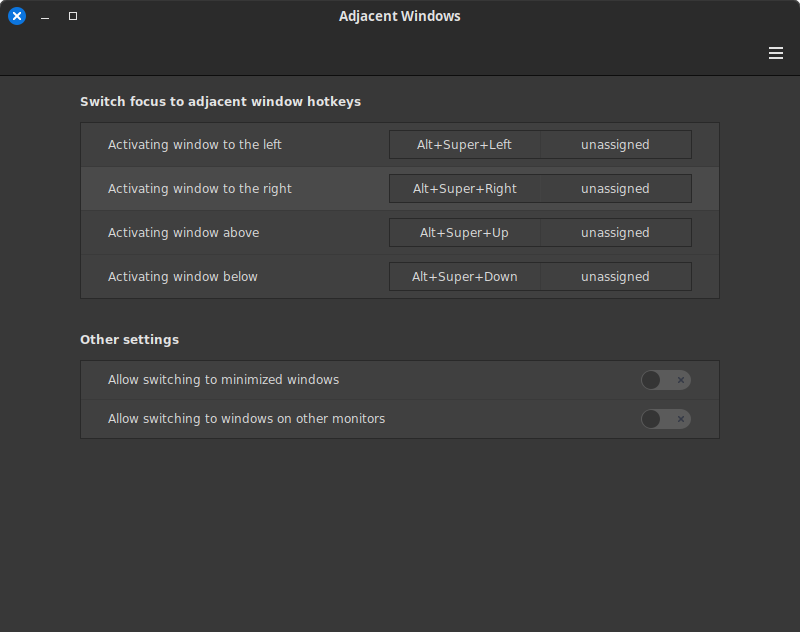
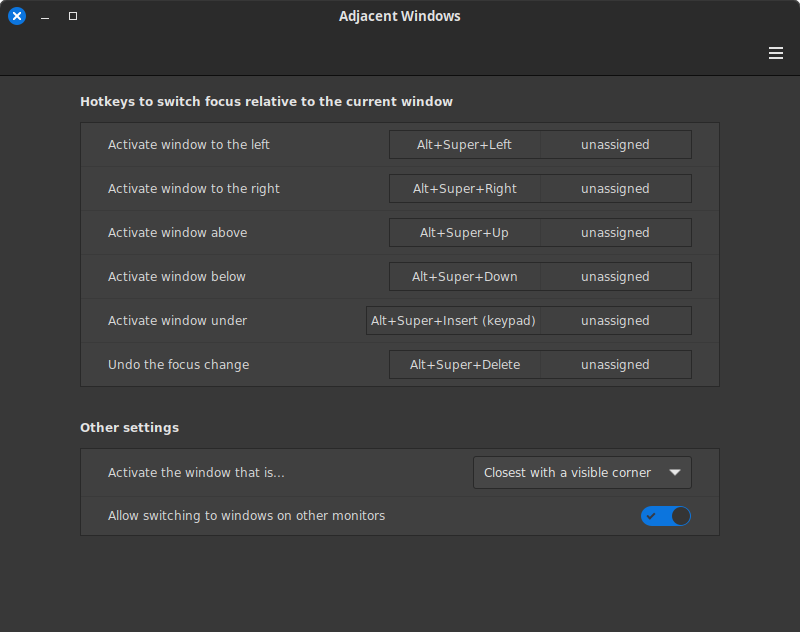
Added some advanced algorithm tuning options
1. Added two new configuration tuning options that users can play with to adjust the window selection criteria algorithm. Using these options might help users adjust the algorithm so that the window selection is more in line with expectations.

2. Moved the extension to a 5.4 directory as a measure to insure that the extension is only available in Cinnamon 5.4 or better.

diff --git a/adjacent-windows@klangman/5.4/extension.js b/adjacent-windows@klangman/5.4/extension.js
@@ -277,6 +277,9 @@ class AdjacentWindows {
       let candidateList = [];
       let windowVisibilityList = [];
       let allowOtherMon  = this.settings.getValue("include-other-monitors");
+      let zoneReductionPercent = this.settings.getValue("boost-restriction");
+      let zoneReduction = Math.round( ((direction == Direction.Left || direction == Direction.Right)? focusedRec.height : focusedRec.width) * (zoneReductionPercent/100) / 2 );
+      let cornerAllowance = this.settings.getValue("overlap-allowance");
 
       // Sort the list of windows in z-order (most recently focused is first in the list).
       windowList.sort(function(a, b) {return b.user_time - a.user_time;});
@@ -293,30 +296,30 @@ class AdjacentWindows {
             if (metaWindow != focusedWindow) {
                if (direction == Direction.Left) {
                   if (rec.x < focusedRec.x) {
-                     windowVisibilityList[idx].overlapping = (rec.y < focusedRec.y+focusedRec.height && rec.y+rec.height > focusedRec.y);
+                     windowVisibilityList[idx].overlapping = (rec.y < focusedRec.y+focusedRec.height-zoneReduction && rec.y+rec.height > focusedRec.y+zoneReduction);
                      windowVisibilityList[idx].rec.width = Math.min(rec.width, focusedRec.x-1-rec.x);
-                     windowVisibilityList[idx].cornerVisibility = this.getCornerVisibility( windowVisibilityList[idx], windowList, rec.x, rec.x+rec.width, rec.y, rec.y+rec.height );
+                     windowVisibilityList[idx].cornerVisibility = this.getCornerVisibility( windowVisibilityList[idx], windowList, rec.x+cornerAllowance, rec.x+rec.width-cornerAllowance, rec.y+cornerAllowance, rec.y+rec.height-cornerAllowance );
                      candidateList.push(windowVisibilityList[idx]);
                   }
                } else if (direction == Direction.Right) {
                   if (rec.x+rec.width > focusedRec.x+focusedRec.width) {
-                     windowVisibilityList[idx].overlapping = (rec.y < focusedRec.y+focusedRec.height && rec.y+rec.height > focusedRec.y);
+                     windowVisibilityList[idx].overlapping = (rec.y < focusedRec.y+focusedRec.height-zoneReduction && rec.y+rec.height > focusedRec.y+zoneReduction);
                      windowVisibilityList[idx].rec.x = Math.max(rec.x, focusedRec.x+focusedRec.width+1);
-                     windowVisibilityList[idx].cornerVisibility = this.getCornerVisibility( windowVisibilityList[idx], windowList, rec.x, rec.x+rec.width, rec.y, rec.y+rec.height );
+                     windowVisibilityList[idx].cornerVisibility = this.getCornerVisibility( windowVisibilityList[idx], windowList, rec.x+cornerAllowance, rec.x+rec.width-cornerAllowance, rec.y+cornerAllowance, rec.y+rec.height-cornerAllowance );
                      candidateList.push(windowVisibilityList[idx]);
                   }
                } else if (direction == Direction.Up) {
                   if (rec.y < focusedRec.y) {
-                     windowVisibilityList[idx].overlapping = (rec.x < focusedRec.x+focusedRec.width && rec.x+rec.width > focusedRec.x)
+                     windowVisibilityList[idx].overlapping = (rec.x < focusedRec.x+focusedRec.width-zoneReduction && rec.x+rec.width > focusedRec.x+zoneReduction)
                      windowVisibilityList[idx].rec.height = Math.min(rec.height, focusedRec.y-1-rec.y);
-                     windowVisibilityList[idx].cornerVisibility = this.getCornerVisibility( windowVisibilityList[idx], windowList, rec.x, rec.x+rec.width, rec.y, rec.y+rec.height );
+                     windowVisibilityList[idx].cornerVisibility = this.getCornerVisibility( windowVisibilityList[idx], windowList, rec.x+cornerAllowance, rec.x+rec.width-cornerAllowance, rec.y+cornerAllowance, rec.y+rec.height-cornerAllowance );
                      candidateList.push(windowVisibilityList[idx]);
                   }
                } else if (direction == Direction.Down) {
                   if (rec.y+rec.height > focusedRec.y+focusedRec.height) {
-                     windowVisibilityList[idx].overlapping = (rec.x < focusedRec.x+focusedRec.width && rec.x+rec.width > focusedRec.x)
+                     windowVisibilityList[idx].overlapping = (rec.x < focusedRec.x+focusedRec.width-zoneReduction && rec.x+rec.width > focusedRec.x+zoneReduction)
                      windowVisibilityList[idx].rec.y = Math.max(rec.y, focusedRec.y+focusedRec.height+1);
-                     windowVisibilityList[idx].cornerVisibility = this.getCornerVisibility( windowVisibilityList[idx], windowList, rec.x, rec.x+rec.width, rec.y, rec.y+rec.height );
+                     windowVisibilityList[idx].cornerVisibility = this.getCornerVisibility( windowVisibilityList[idx], windowList, rec.x+cornerAllowance, rec.x+rec.width-cornerAllowance, rec.y+cornerAllowance, rec.y+rec.height-cornerAllowance );
                      candidateList.push(windowVisibilityList[idx]);
                   }
                }

diff --git a/README.md b/README.md
@@ -1,5 +1,5 @@
 # Adjacent Windows
-A Cinnamon extension that allows you to define hot keys which will activate the nearest window to the current window on the left, right, top and bottom. This means you can change the focused window without using Alt-Tab or grabbing your mouse.
+A Cinnamon extension that allows you to define hot keys which will activate the nearest window to the current window on the left, right, top, bottom or underneath. There is also an option (disabled by default) to undo the window change and activate the previous window. This means you can change the focused window without using Alt-Tab or grabbing your mouse.
 
 ![screen shot](adjacent-windows@klangman/screenshot.png)
 

diff --git a/CHANGELOG.md b/CHANGELOG.md
@@ -1,0 +1,10 @@
+# Changelog
+
+## 1.1.0
+
+* Added two new configuration tuning options that users can play with to adjust the window selection criteria algorithm. Using these options might help users adjust the algorithm so that the window selection is more in line with their specific expectations.
+* Limit the extension to Cinnamon 5.4 or better (moved the extension to a 5.4 directory and modified metadata.json)
+
+## 1.0.0
+
+* Initial version commited to cinnamon spices
